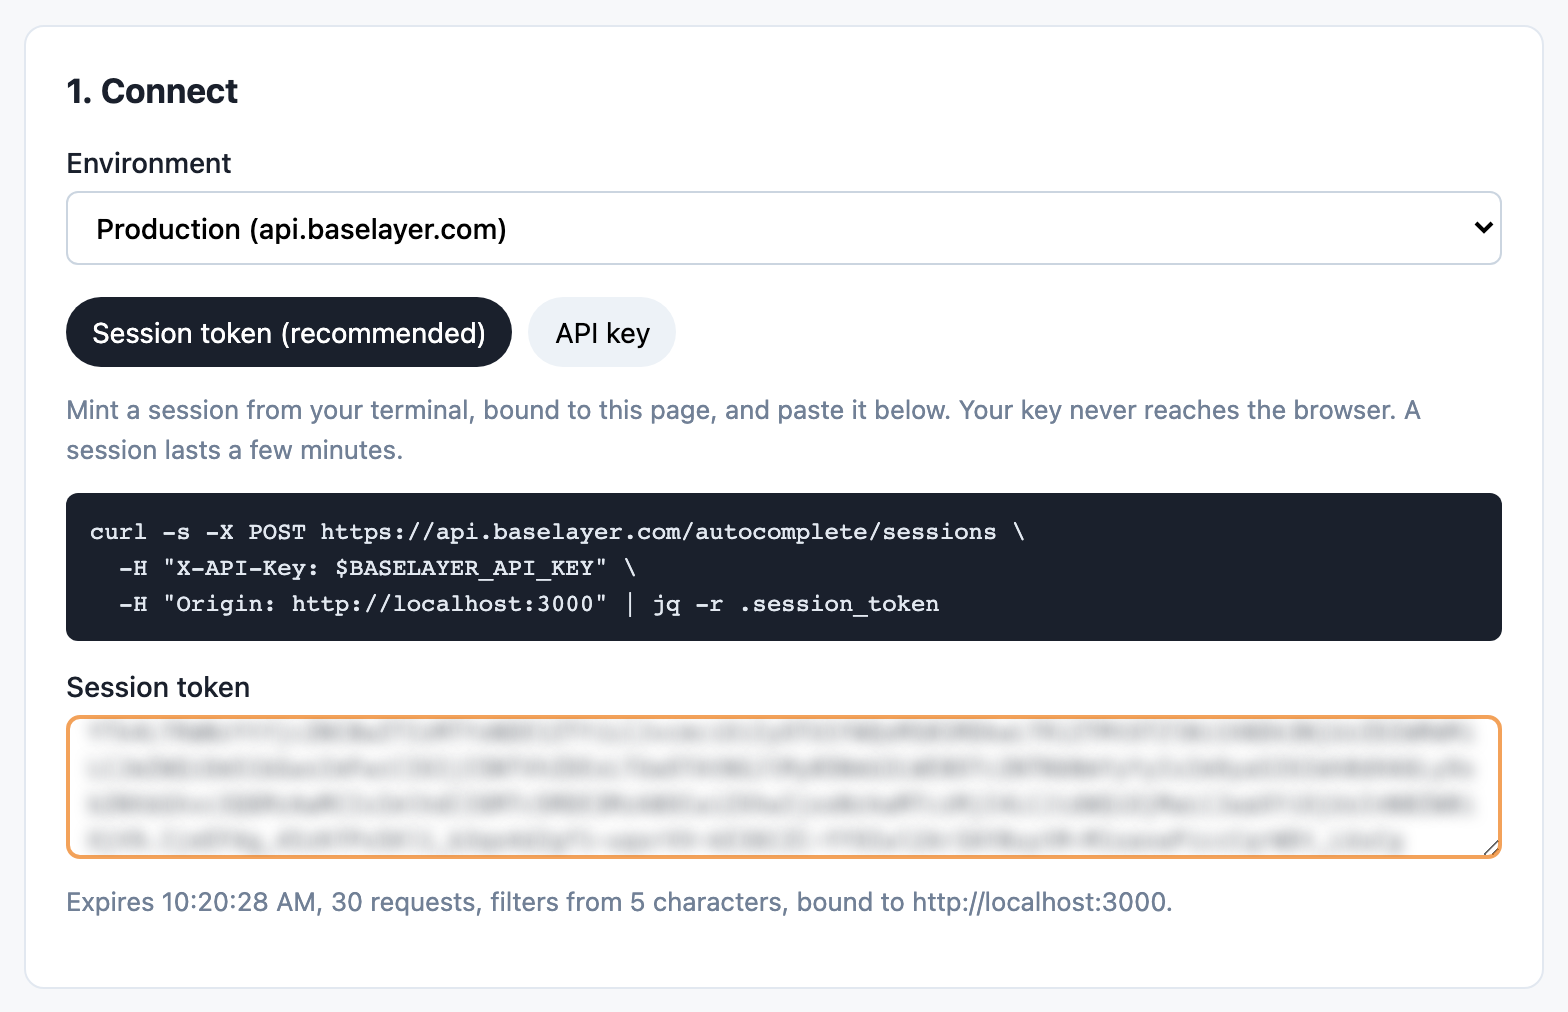
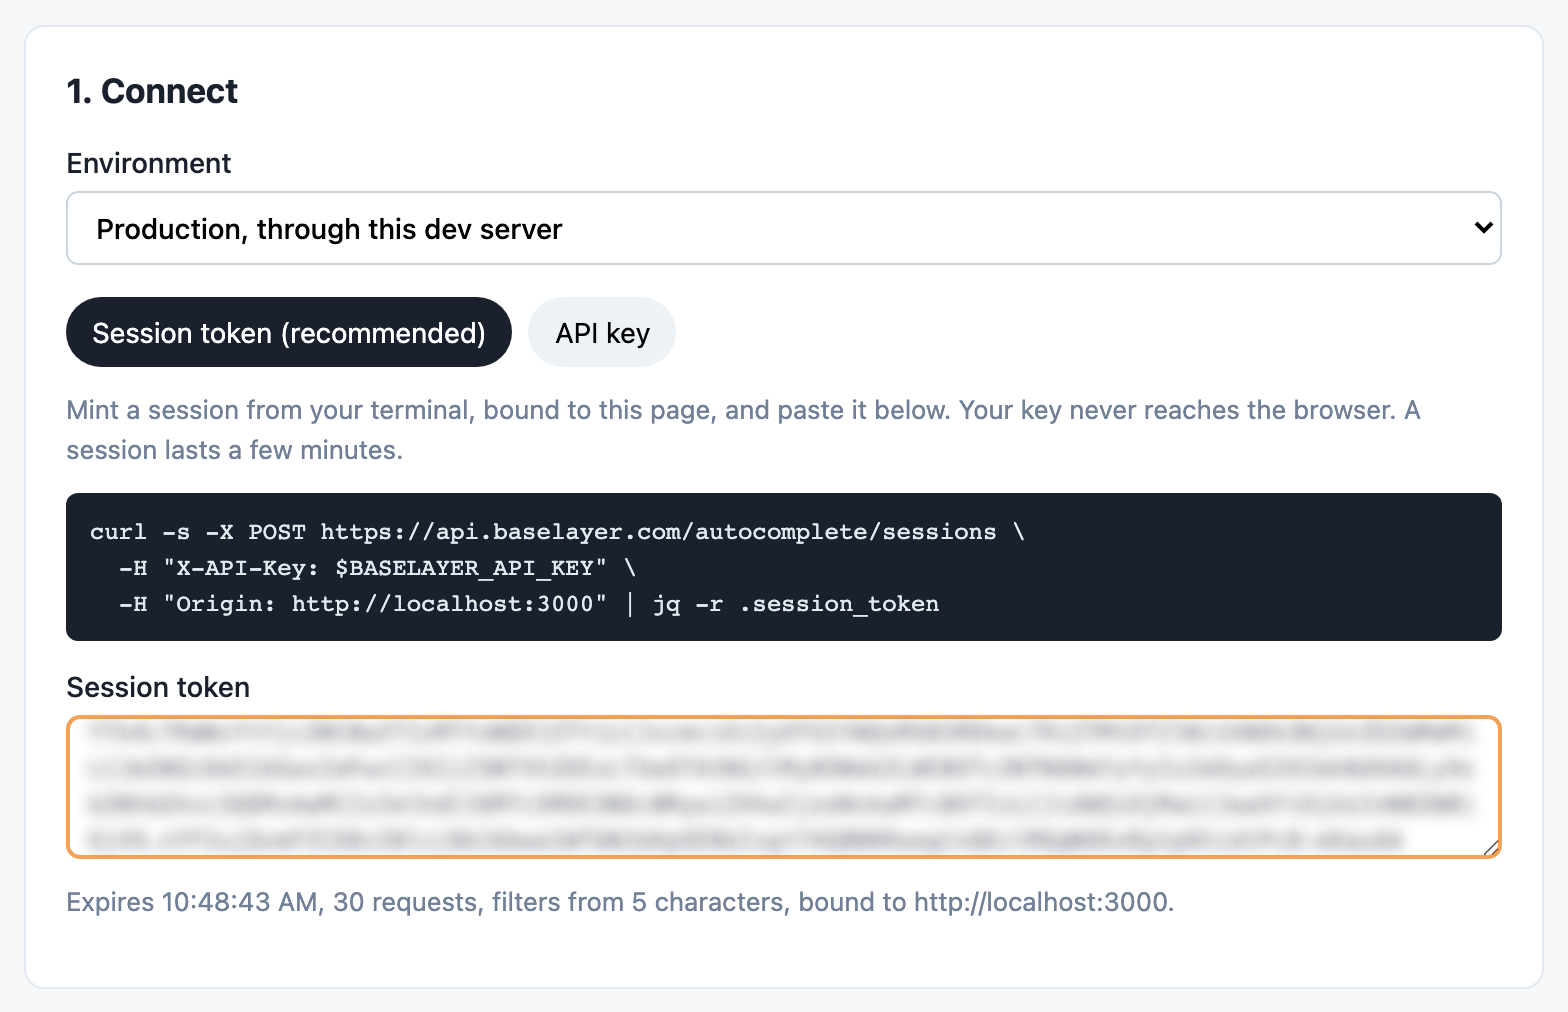
Forward the local demo's calls to production through its dev server
Run locally, the demo's API-key mode died on its first mint with HTTP 0:
production's API lists no localhost origin, so the browser refused the
call before it left, and the tier's CORS admits only the console. Nothing
the page can do fixes that from the browser, and nothing should: a page
holding an API key is what the SDK tells customers not to build.

So `pnpm demo` now does what a customer's backend does. The page calls
`/_baselayer/autocomplete/...` on its own origin and the Vite dev server
forwards it to production (or to `DEMO_API`). The browser makes no
cross-origin call at all, and both modes work locally today. The session
stays bound to the page: the mint's POST carries the page's Origin, and
the tier's GET, which a browser sends same-origin without one, is given
the origin it came to. The page sends no Referer on purpose, so the Host
header is what carries it.

The option exists only in the dev server. The published page is static,
keeps calling production from the browser, and still needs ENG-7947.

The demo screenshots are retaken from such a local run, so the docs no
longer have to say the calls were relayed by the test browser.

Changed region(s): [[0.125, 0.8883, 0.75, 0.919], [0.1562, 0.2144, 0.375, 0.2451]]

diff --git a/demo/App.tsx b/demo/App.tsx
@@ -16,10 +16,13 @@ import { useEffect, useMemo, useState } from "react";
 
 import { keyMint, readClaims, tokenMint } from "./credentials";
 
-const ENVIRONMENTS = {
-  production: "https://api.baselayer.com",
-} as const;
-type Environment = keyof typeof ENVIRONMENTS | "custom";
+const PRODUCTION = "https://api.baselayer.com";
+/**
+ * `pnpm demo` forwards this path to production (demo/vite.config.ts). The
+ * published page is static, so it has no server to forward through.
+ */
+const DEV_SERVER_PATH = import.meta.env.DEV ? "/_baselayer" : null;
+type Environment = "dev-server" | "production" | "custom";
 type Mode = "token" | "key";
 
 interface LogLine {
@@ -126,7 +129,9 @@ function SessionMeters({ client }: { client: AutocompleteClient }) {
 }
 
 export function App() {
-  const [environment, setEnvironment] = useState<Environment>("production");
+  const [environment, setEnvironment] = useState<Environment>(
+    DEV_SERVER_PATH === null ? "production" : "dev-server",
+  );
   const [customUrl, setCustomUrl] = useState("");
   const [mode, setMode] = useState<Mode>("token");
   const [secret, setSecret] = useState("");
@@ -141,13 +146,19 @@ export function App() {
   const [person, setPerson] = useState("");
   const [state, setState] = useState("");
 
+  const origin = typeof location === "undefined" ? "" : location.origin;
+  const customBase = customUrl.replace(/\/+$/, "");
+  // Where the page's calls go, and the API they reach (the two differ only
+  // when the dev server forwards them).
   const baseUrl =
-    environment === "custom"
-      ? customUrl.replace(/\/+$/, "")
-      : ENVIRONMENTS[environment];
+    environment === "dev-server"
+      ? `${origin}${DEV_SERVER_PATH ?? ""}`
+      : environment === "custom"
+        ? customBase
+        : PRODUCTION;
+  const apiHost = environment === "custom" ? customBase : PRODUCTION;
   const client = useClient(baseUrl, mode, secret);
   const log = useLog(client);
-  const origin = typeof location === "undefined" ? "" : location.origin;
   const claims = mode === "token" ? readClaims(secret) : null;
 
   const filters: Filters | undefined = useMemo(() => {
@@ -167,7 +178,7 @@ export function App() {
     showDebugInfo: debug,
   };
 
-  const curl = `curl -s -X POST ${baseUrl || "https://api.baselayer.com"}/autocomplete/sessions \\
+  const curl = `curl -s -X POST ${apiHost || PRODUCTION}/autocomplete/sessions \\
   -H "X-API-Key: $BASELAYER_API_KEY" \\
   -H "Origin: ${origin}" | jq -r .session_token`;
 
@@ -191,6 +202,11 @@ export function App() {
               value={environment}
               onChange={e => setEnvironment(e.target.value as Environment)}
             >
+              {DEV_SERVER_PATH !== null && (
+                <option value="dev-server">
+                  Production, through this dev server
+                </option>
+              )}
               <option value="production">Production (api.baselayer.com)</option>
               <option value="custom">Custom URL</option>
             </select>
@@ -259,9 +275,17 @@ export function App() {
           <>
             <p className="warning">
               Your key stays in this tab&apos;s memory and is sent only to{" "}
-              <code>{baseUrl || "the API"}</code>. It is not stored, and this
-              page loads no third-party code. In your product, the key belongs
-              on your backend (<code>@baselayer/autocomplete/server</code>).
+              {environment === "dev-server" ? (
+                <>
+                  this dev server, which forwards it to{" "}
+                  <code>{PRODUCTION}</code>
+                </>
+              ) : (
+                <code>{apiHost || "the API"}</code>
+              )}
+              . It is not stored, and this page loads no third-party code. In
+              your product, the key belongs on your backend (
+              <code>@baselayer/autocomplete/server</code>).
             </p>
             <label>
               API key
@@ -372,7 +396,7 @@ export function App() {
             Send the token with your search; it is good until{" "}
             {new Date(picked.pick.expiresAt).toLocaleTimeString()}.
           </p>
-          <pre className="code">{`POST ${baseUrl}/searches
+          <pre className="code">{`POST ${apiHost}/searches
 {
   "name": ${JSON.stringify(picked.suggestion.label)},
   "address": ${JSON.stringify(picked.suggestion.related.addresses.items[0]?.label ?? "")},

diff --git a/demo/vite.config.ts b/demo/vite.config.ts
@@ -1,7 +1,7 @@
 import { fileURLToPath } from "node:url";
 
 import react from "@vitejs/plugin-react";
-import { defineConfig, type Plugin } from "vite";
+import { defineConfig, type Plugin, type ProxyOptions } from "vite";
 
 const src = (path: string) =>
   fileURLToPath(new URL(`../src/${path}`, import.meta.url));
@@ -34,6 +34,30 @@ function contentSecurityPolicy(): Plugin {
   };
 }
 
+/**
+ * `pnpm demo` stands in for your backend: the page calls this dev server on
+ * its own origin, and the dev server forwards the autocomplete routes to the
+ * API. The browser makes no cross-origin call, so no CORS list has to admit
+ * localhost, and the API key goes where a customer's backend would send it.
+ * The session stays bound to the page: the mint's POST carries the page's
+ * `Origin`, and the tier's GET, which a browser sends same-origin without
+ * one, is given the origin it came to (this server is plain http). The page
+ * sends no `Referer`, on purpose, so that cannot stand in.
+ */
+const throughDevServer: ProxyOptions = {
+  target: process.env.DEMO_API ?? "https://api.baselayer.com",
+  changeOrigin: true,
+  rewrite: path => path.replace(/^\/_baselayer/, ""),
+  configure: server => {
+    server.on("proxyReq", (proxyReq, request) => {
+      proxyReq.removeHeader("cookie");
+      if (request.headers.origin === undefined) {
+        proxyReq.setHeader("origin", `http://${request.headers.host ?? ""}`);
+      }
+    });
+  },
+};
+
 // The demo runs on the SDK's source, so it always shows what `main` does.
 export default defineConfig({
   root: fileURLToPath(new URL(".", import.meta.url)),
@@ -52,7 +76,11 @@ export default defineConfig({
       { find: /^@baselayer\/autocomplete$/, replacement: src("index.ts") },
     ],
   },
-  server: { port: Number(process.env.DEMO_PORT ?? 3000), strictPort: true },
+  server: {
+    port: Number(process.env.DEMO_PORT ?? 3000),
+    strictPort: true,
+    proxy: { "/_baselayer/autocomplete": throughDevServer },
+  },
   build: {
     outDir: fileURLToPath(new URL("../demo-dist", import.meta.url)),
     emptyOutDir: true,

diff --git a/demo/credentials.ts b/demo/credentials.ts
@@ -25,7 +25,9 @@ export function keyMint(baseUrl: string, apiKey: string): MintFunction {
         throw error;
       }
       throw new Error(
-        "The API did not answer this page (most likely CORS: this origin is not allowed to mint). Use a session token instead.",
+        import.meta.env.DEV
+          ? "The API did not answer this page (most likely CORS: it does not admit this origin). Pick “Production, through this dev server”."
+          : "The API did not answer this page (most likely CORS: this origin is not allowed to mint). Use a session token instead.",
       );
     }
     let body: unknown = null;

diff --git a/docs/demo.md b/docs/demo.md
@@ -13,16 +13,18 @@ While the repository is private, so is the site: open it signed in to
 GitHub as a member of the osiris-ratings organization. The address changes
 when the site goes public.
 
-The page talks to the production API, `https://api.baselayer.com`, from
-the browser. That needs the autocomplete tier to answer CORS for the demo's
-origin and the API to accept its mint, which osiris-app ENG-7947 deploys;
-until it is in production the browser refuses both calls. The screenshots
-below are production answers, taken while the calls were relayed by the
-test browser's harness rather than made by the page.
+The published page talks to the production API, `https://api.baselayer.com`,
+from the browser. That needs the autocomplete tier to answer CORS for the
+demo's origin and the API to accept its mint, which osiris-app ENG-7947
+deploys; until it is in production the browser refuses both calls. Run
+locally, the demo needs neither (see
+[Running it locally](#running-it-locally)), and the screenshots below are
+production answers to a local run.
 
 ## Connecting
 
-Pick the environment, then one of two ways in.
+Pick the environment, then one of two ways in. Run locally, the page
+starts on **Production, through this dev server**.
 
 **A session token (recommended).** Mint a session from your terminal, bound
 to the demo's origin, and paste the token. Your API key never reaches the
@@ -41,10 +43,11 @@ new one when it runs out. The page reads the token's terms and shows them:
 ![Connecting with a session token](images/demo-connect-token.png)
 
 **An API key.** The page mints for itself, the way your backend would. The
-key stays in the tab's memory, is sent only to the API host you picked, and
-is never stored; the page loads no third-party code and ships a
-Content-Security-Policy that allows none. This mode needs the API to accept
-requests from the demo's origin.
+key stays in the tab's memory, is sent only to the API host you picked (or
+to the local dev server, which forwards it there), and is never stored; the
+page loads no third-party code and ships a Content-Security-Policy that
+allows none. On the published page this mode needs the API to accept the
+demo's origin.
 
 ![Connecting with an API key, with substring marks](images/demo-key-mode-how-con-pum.png)
 
@@ -59,12 +62,23 @@ pnpm install
 pnpm demo        # http://localhost:3000
 ```
 
-Locally the page runs on `http://localhost:3000`. Once osiris-app ENG-7947
-is in production, the tier answers CORS for every origin, so a session
-token works from there; the API-key mode also needs the API to list the
-page's origin, and ENG-7947 lists only the hosted demo's. Until then
-production admits browser calls from the Baselayer console alone. For
-another environment, pick **Custom URL** and give its API host.
+The page runs on `http://localhost:3000` and starts on **Production,
+through this dev server**: it calls `/_baselayer/autocomplete/…` on its own
+origin, and the dev server forwards those calls to production. That is the
+shape of a real integration, the dev server standing in for your backend,
+and it is why both modes work locally while production's CORS lists admit
+neither localhost nor the published page. The browser makes no cross-origin
+call at all.
+
+The session stays bound to the page. The mint's POST carries the page's
+`Origin`; the tier's GET, which a browser sends to its own origin without
+one, is given the origin it came to. Point the forwarding at another API
+with `DEMO_API=https://… pnpm demo`.
+
+**Production (api.baselayer.com)** makes the calls from the browser, as the
+published page does, and works once ENG-7947 is in production: a session
+token from any origin, the API-key mode only from the published page's.
+For another environment, pick **Custom URL** and give its API host.
 
 ## What it shows
 
